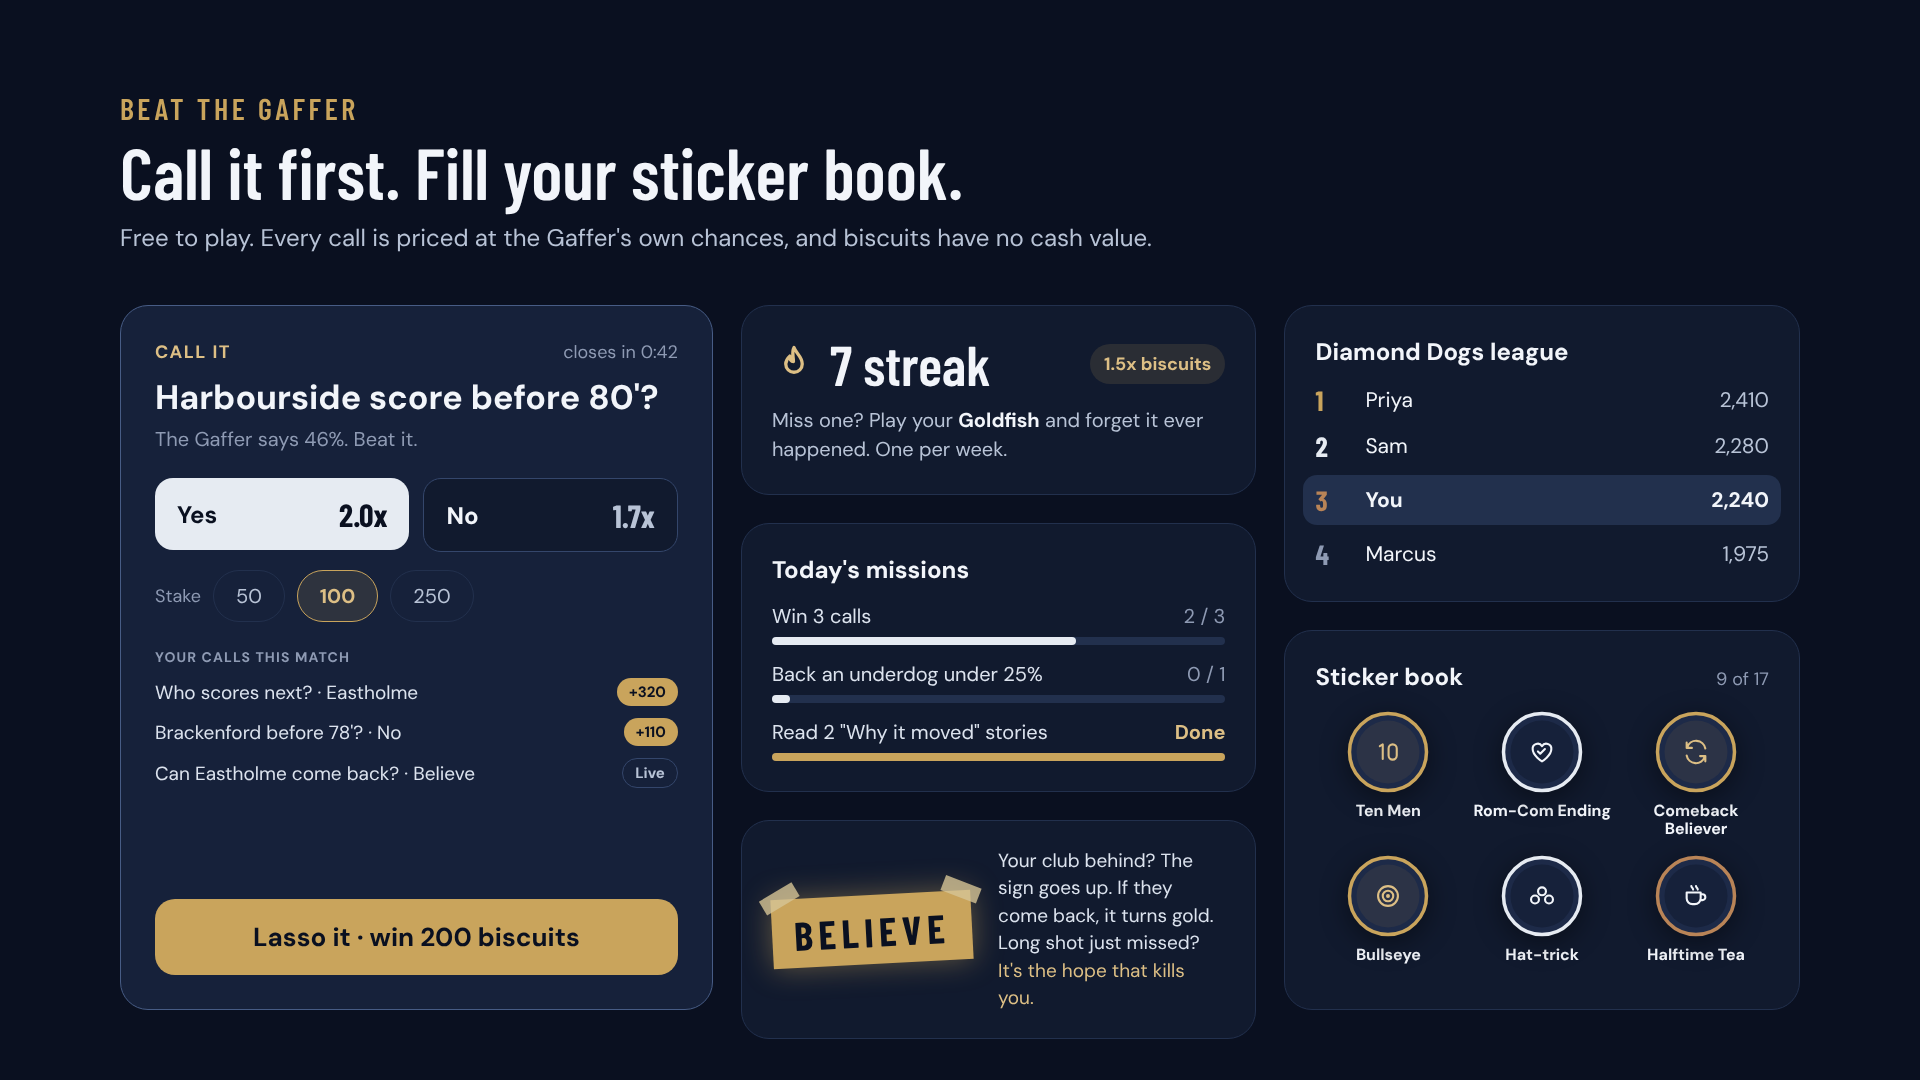
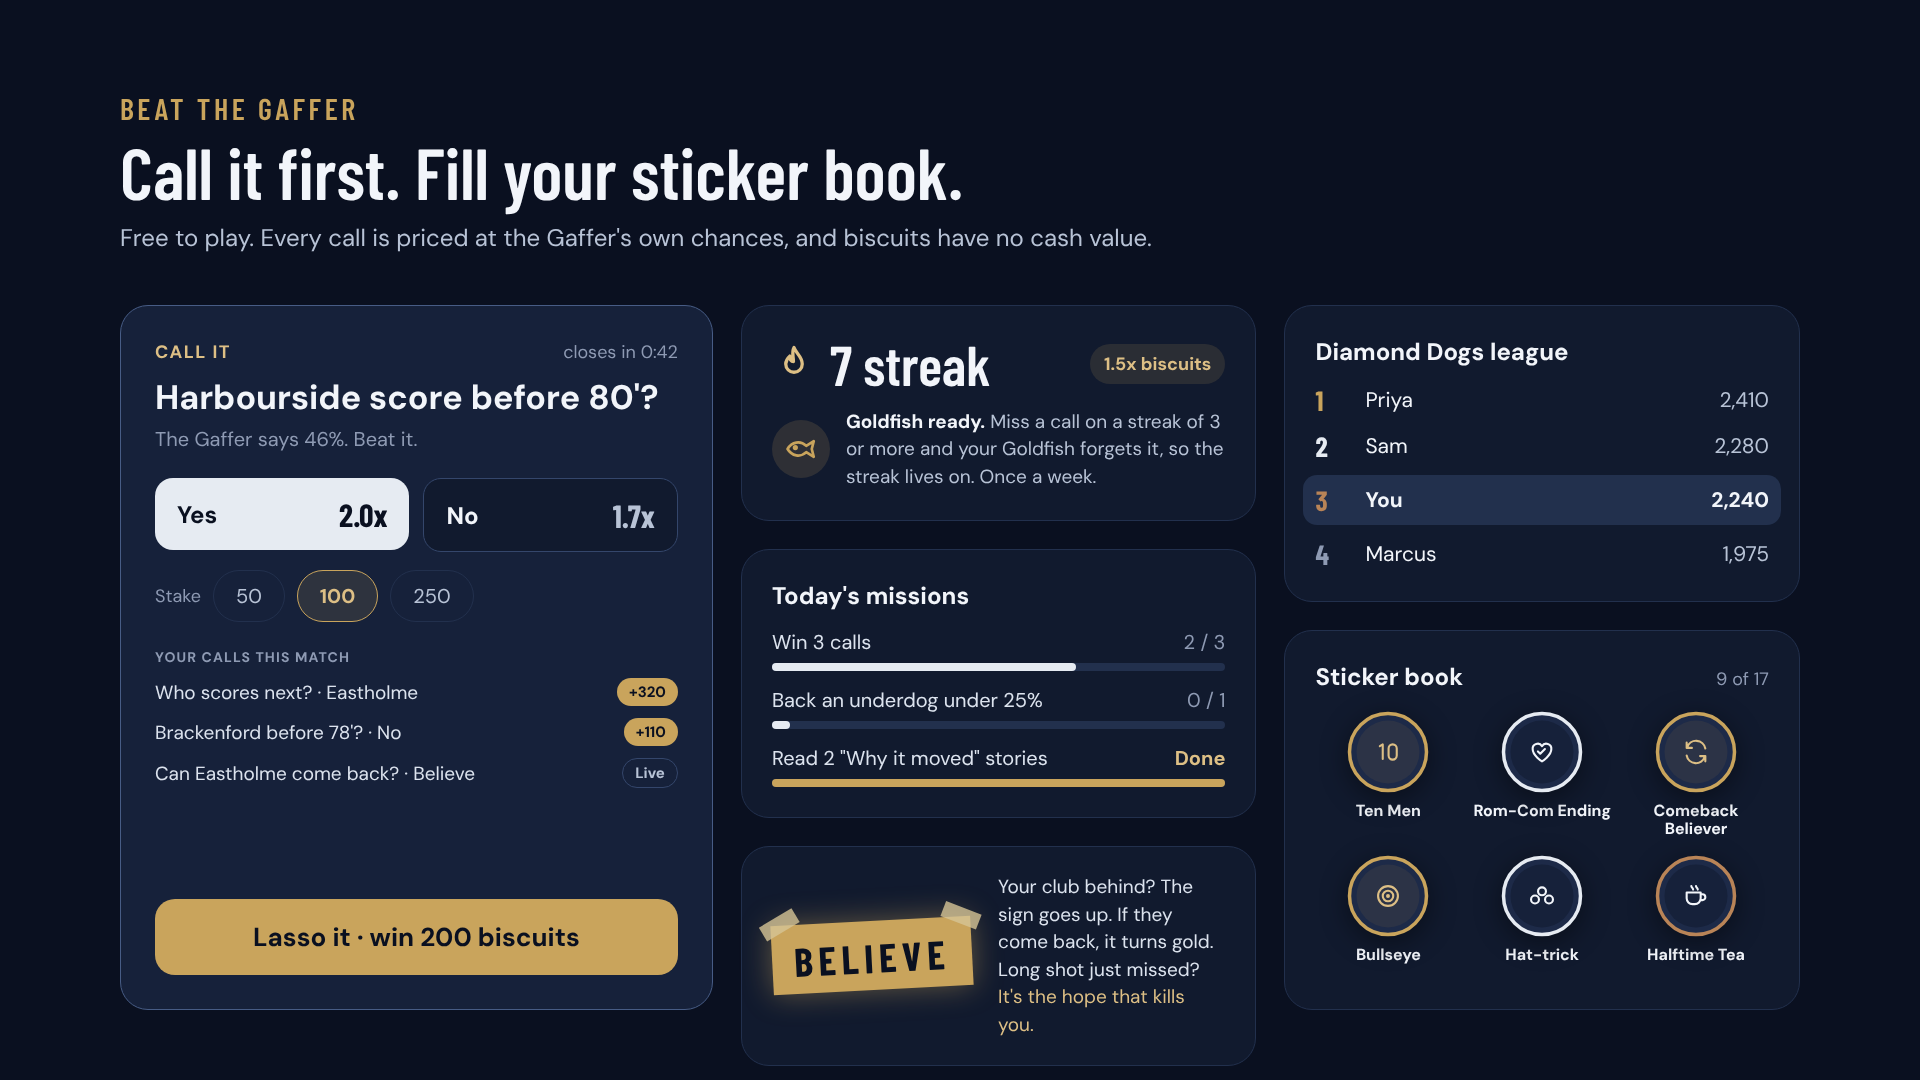
Goldfish made visible: fish in the streak pill, a streak explainer, clearer toast; call history on Me
- Tap the streak pill to see what a streak pays (1.25x at 3, 1.5x at 5) and how
  the Goldfish works; the fish is gold when ready and dimmed once used.
- The Goldfish toast and copy explain it plainly, without quoting the show.
- Your calls: every prediction newest first with stake, odds, match, minute and
  status (live, won with payout, missed, or saved by the Goldfish).
- Beat the Gaffer image explains the Goldfish the same way.

Claude-Session: https://claude.ai/code/session_01VjVdm676emTWmPPf7gxrFH

Changed region(s): [[0.4062, 0.5194, 0.6562, 0.7333], [0.375, 0.7944, 0.625, 0.9472], [0.4062, 0.3667, 0.625, 0.4583]]

diff --git a/web/src/components/Chrome.tsx b/web/src/components/Chrome.tsx
@@ -1,10 +1,11 @@
 import confetti from "canvas-confetti";
 import { useEffect, useState } from "react";
+import { createPortal } from "react-dom";
 import { t } from "../i18n";
 import { useStore } from "../store";
 import { Animated } from "./bits";
 import { StickerBadge, stickerText } from "./Stickers";
-import { Biscuit, CardsIcon, Flame, LassoMark, LiveIcon, Moon, Sun, Trophy, UserIcon } from "./Icons";
+import { Biscuit, CardsIcon, Fish, Flame, LassoMark, LiveIcon, Moon, Sun, Trophy, UserIcon } from "./Icons";
 import { currentAppearance, setAppearance } from "../theme";
 
 export function TopBar() {
@@ -18,6 +19,7 @@ export function TopBar() {
     return () => window.removeEventListener("lasso-theme", sync);
   }, []);
   const flip = () => setAppearance(mode === "dark" ? "light" : "dark");
+  const [streakOpen, setStreakOpen] = useState(false);
   return (
     <header className="topbar">
       <a className="brand" href="#/" aria-label="Lasso home">
@@ -31,16 +33,19 @@ export function TopBar() {
             <Biscuit />
             <Animated value={user.biscuits} />
           </span>
-          <span className="pill gold" title={t("streak", lang)}>
+          <button className="pill gold" onClick={() => setStreakOpen(true)} aria-label={t("streakTitle", lang)}
+            title={user.goldfish_available ? t("gfReady", lang) : t("gfUsed", lang)}>
             <Flame />
             <span>{user.streak}<span className="lbl"> {t("streak", lang)}</span></span>
-          </span>
+            <span className={`fish${user.goldfish_available ? "" : " used"}`}><Fish size={15} /></span>
+          </button>
           <button className="pill icon" onClick={flip} aria-label={mode === "dark" ? t("light", lang) : t("dark", lang)}
             title={mode === "dark" ? t("light", lang) : t("dark", lang)}>
             {mode === "dark" ? <Sun /> : <Moon />}
           </button>
         </div>
       )}
+      {user && streakOpen && createPortal(<StreakSheet onClose={() => setStreakOpen(false)} />, document.body)}
     </header>
   );
 }
@@ -94,7 +99,7 @@ export function Toasts() {
           {x.kind === "loss" && (
             <div>
               <div className="big" style={{ fontSize: 22 }}>{t("notThisTime", lang)}</div>
-              <div className="sub">{x.call.question} {x.call.goldfish ? "· Goldfish saved your streak" : ""}</div>
+              <div className="sub">{x.call.question}{x.call.goldfish ? ` · ${t("stSaved", lang).split("·")[1]?.trim() ?? ""}` : ""}</div>
             </div>
           )}
           {x.kind === "sticker" && (
@@ -122,14 +127,54 @@ export function Toasts() {
             </div>
           )}
           {x.kind === "goldfish" && (
-            <div>
-              <div className="sub" style={{ color: "var(--gold-2)" }}>GOLDFISH USED</div>
-              <div style={{ fontWeight: 700 }}>{x.text}</div>
-            </div>
+            <>
+              <span className="fishbadge"><Fish size={26} /></span>
+              <div>
+                <div className="sub" style={{ color: "var(--gold-2)", letterSpacing: "0.08em" }}>{t("goldfish", lang).toUpperCase()}!</div>
+                <div style={{ fontWeight: 700 }}>{t("gfToast", lang).replace("{n}", String(x.streak))}</div>
+              </div>
+            </>
           )}
           {x.kind === "error" && <div style={{ fontWeight: 600 }}>{x.text}</div>}
         </div>
       ))}
+    </div>
+  );
+}
+
+/** What a streak is worth and how the Goldfish protects it. Opens from the streak pill. */
+function StreakSheet({ onClose }: { onClose: () => void }) {
+  const user = useStore((s) => s.user)!;
+  const lang = useStore((s) => s.lang);
+  const tiers = [
+    { at: 3, x: "1.25x" },
+    { at: 5, x: "1.5x" },
+  ];
+  return (
+    <div className="sheet" role="dialog" aria-modal="true" aria-labelledby="streak-title" onClick={onClose}>
+      <div className="sheet-inner" onClick={(e) => e.stopPropagation()}>
+        <div className="row">
+          <h2 id="streak-title" className="num" style={{ margin: 0, fontSize: 30 }}>{t("streakTitle", lang).toUpperCase()}</h2>
+          <span className="pill gold"><Flame /> {user.streak}</span>
+        </div>
+        <p className="muted" style={{ margin: 0, lineHeight: 1.5 }}>{t("streakHow", lang)}</p>
+        <div className="tiers">
+          {tiers.map((tr) => (
+            <div key={tr.at} className={`tier${user.streak >= tr.at ? " on" : ""}`}>
+              <b>{tr.at}<small>{t("inARow", lang)}</small></b>
+              <span>{tr.x}</span>
+            </div>
+          ))}
+        </div>
+        <div className={`gfcard${user.goldfish_available ? "" : " used"}`}>
+          <span className="fishbadge"><Fish size={30} /></span>
+          <div>
+            <b>{user.goldfish_available ? t("gfReady", lang) : t("gfUsed", lang)}</b>
+            <p>{t("gfHow", lang)}</p>
+          </div>
+        </div>
+        <button className="cta" onClick={onClose}>{t("gotIt", lang)}</button>
+      </div>
     </div>
   );
 }

diff --git a/web/src/i18n.ts b/web/src/i18n.ts
@@ -52,6 +52,38 @@ const S = {
   cameBack: { en: "{team} came back.", es: "{team} remontó.", pt: "{team} reagiu.", fr: "{team} est revenu." },
   menLeft: { en: "{n} men", es: "{n} jugadores", pt: "{n} jogadores", fr: "{n} joueurs" },
   redCards: { en: "Red card: playing a player short", es: "Roja: juega con uno menos", pt: "Vermelho: joga com um a menos", fr: "Carton rouge : joue à dix" },
+  goldfish: { en: "Goldfish", es: "Goldfish", pt: "Goldfish", fr: "Goldfish" },
+  gfReady: { en: "Goldfish ready", es: "Goldfish listo", pt: "Goldfish pronto", fr: "Goldfish prêt" },
+  gfUsed: { en: "Goldfish used. Back on Monday.", es: "Goldfish usado. Vuelve el lunes.", pt: "Goldfish usado. Volta na segunda.", fr: "Goldfish utilisé. Retour lundi." },
+  gfToast: {
+    en: "Short memory. That miss is forgotten and your {n} streak lives on.",
+    es: "Memoria corta. Ese fallo queda olvidado y tu racha de {n} sigue viva.",
+    pt: "Memória curta. Esse erro foi esquecido e sua sequência de {n} continua.",
+    fr: "Mémoire courte. Ce raté est oublié et ta série de {n} continue.",
+  },
+  streakTitle: { en: "Your streak", es: "Tu racha", pt: "Sua sequência", fr: "Ta série" },
+  streakHow: {
+    en: "Win calls in a row to build a streak. At 3 in a row your wins pay 1.25x, and at 5 they pay 1.5x.",
+    es: "Acierta seguido para hacer racha. Con 3 seguidos tus aciertos pagan 1,25x y con 5, 1,5x.",
+    pt: "Acerte em sequência para criar uma série. Com 3 seguidos seus acertos pagam 1,25x e com 5, 1,5x.",
+    fr: "Enchaîne les bons pronos pour faire une série. À 3 de suite, tes gains passent à 1,25x, et à 5, à 1,5x.",
+  },
+  gfHow: {
+    en: "Once a week, your Goldfish forgets one missed call, so a streak of 3 or more keeps going. It comes back every Monday.",
+    es: "Una vez por semana, tu Goldfish olvida un fallo, así que una racha de 3 o más sigue viva. Vuelve cada lunes.",
+    pt: "Uma vez por semana, seu Goldfish esquece um erro, então uma sequência de 3 ou mais continua. Ele volta toda segunda.",
+    fr: "Une fois par semaine, ton Goldfish oublie un prono raté, et une série de 3 ou plus continue. Il revient chaque lundi.",
+  },
+  inARow: { en: "in a row", es: "seguidos", pt: "seguidos", fr: "de suite" },
+  gotIt: { en: "Got it", es: "Entendido", pt: "Entendi", fr: "Compris" },
+  myCalls: { en: "Your calls", es: "Tus pronósticos", pt: "Seus palpites", fr: "Tes pronos" },
+  callsSummary: { en: "{n} calls · {w} won · {o} live", es: "{n} pronósticos · {w} acertados · {o} en juego", pt: "{n} palpites · {w} certos · {o} em jogo", fr: "{n} pronos · {w} gagnés · {o} en cours" },
+  stOpen: { en: "Live", es: "En juego", pt: "Em jogo", fr: "En cours" },
+  stWon: { en: "Won", es: "Acertado", pt: "Certo", fr: "Gagné" },
+  stLost: { en: "Missed", es: "Fallado", pt: "Errou", fr: "Raté" },
+  stSaved: { en: "Missed · Goldfish saved your streak", es: "Fallado · el Goldfish salvó tu racha", pt: "Errou · o Goldfish salvou sua sequência", fr: "Raté · le Goldfish a sauvé ta série" },
+  noCalls: { en: "No calls yet. Open a live match and make your first one.", es: "Aún no hay pronósticos. Abre un partido en vivo y haz el primero.", pt: "Nenhum palpite ainda. Abra um jogo ao vivo e faça o primeiro.", fr: "Pas encore de prono. Ouvre un match en direct et lance-toi." },
+  showAll: { en: "Show all", es: "Ver todo", pt: "Ver tudo", fr: "Tout voir" },
   teamTalk: { en: "Halftime team talk", es: "Charla del descanso", pt: "Preleção do intervalo", fr: "Causerie de la mi-temps" },
   fanHint: { en: "Plain-English stories and your club's angle", es: "Historias claras y el punto de vista de tu club", pt: "Histórias simples e o lado do seu clube", fr: "Des récits simples et l'angle de ton club" },
   analystHint: { en: "xG, field tilt and the full breakdown of every swing", es: "xG, dominio territorial y el desglose de cada cambio", pt: "xG, domínio territorial e o detalhamento de cada virada", fr: "xG, territoire et le détail de chaque bascule" },

diff --git a/web/src/pages/Social.tsx b/web/src/pages/Social.tsx
@@ -4,7 +4,7 @@ import { LANGS, t } from "../i18n";
 import { useStore } from "../store";
 import type { Lang, LeaderRow } from "../types";
 import { Crest } from "../components/bits";
-import { Flame } from "../components/Icons";
+import { Fish, Flame } from "../components/Icons";
 import { StickerBadge, stickerText } from "../components/Stickers";
 import { currentAppearance, setAppearance } from "../theme";
 
@@ -170,10 +170,14 @@ export function Profile() {
         <div><div className="v">{user.best_streak}</div><div className="l">Best streak</div></div>
         <div><div className="v">{winRate}%</div><div className="l">Calls won</div></div>
       </div>
-      <section className="card">
-        <div className="row"><span className="eyebrow">Goldfish</span><span className="chip ghost">{user.goldfish_available ? "Ready" : "Used this week"}</span></div>
-        <p className="muted" style={{ margin: "8px 0 0", fontSize: 13, lineHeight: 1.5 }}>Once a week, a missed call won't break a streak of 3 or more. Be a goldfish: forget it and go again.</p>
+      <section className={`card gfcard${user.goldfish_available ? "" : " used"}`}>
+        <span className="fishbadge"><Fish size={30} /></span>
+        <div>
+          <b>{user.goldfish_available ? t("gfReady", lang) : t("gfUsed", lang)}</b>
+          <p>{t("gfHow", lang)}</p>
+        </div>
       </section>
+      <CallHistory />
       <section className="card" style={{ display: "flex", flexDirection: "column", gap: 14 }}>
         <span className="eyebrow gold">{t("missions", lang)}</span>
         {user.missions.map((m) => (
@@ -214,5 +218,48 @@ export function Profile() {
         Biscuits are free in-app points with no cash value. All clubs, players and matches are synthetic.
       </p>
     </div>
+  );
+}
+
+/** Every call you've made, newest first, with where it stands now. */
+function CallHistory() {
+  const calls = useStore((s) => s.calls);
+  const matches = useStore((s) => s.matches);
+  const lang = useStore((s) => s.lang);
+  const [all, setAll] = useState(false);
+  const list = Object.values(calls).sort((a, b) => (b.placed_at ?? 0) - (a.placed_at ?? 0));
+  const label = (id?: string) => {
+    const m = matches.find((x) => x.match_id === (id ?? "").split(":")[0]);
+    return m ? `${m.home.short} v ${m.away.short}` : "";
+  };
+  const won = list.filter((c) => c.status === "won").length;
+  const open = list.filter((c) => c.status === "open").length;
+  const shown = all ? list : list.slice(0, 8);
+  return (
+    <section className="card" style={{ display: "flex", flexDirection: "column", gap: 10 }}>
+      <div className="row">
+        <span className="eyebrow gold">{t("myCalls", lang)}</span>
+        {list.length > 0 && (
+          <span className="muted" style={{ fontSize: 12 }}>
+            {t("callsSummary", lang).replace("{n}", String(list.length)).replace("{w}", String(won)).replace("{o}", String(open))}
+          </span>
+        )}
+      </div>
+      {list.length === 0 && <p className="muted" style={{ margin: 0, fontSize: 13 }}>{t("noCalls", lang)}</p>}
+      {shown.map((c) => (
+        <div key={c.id} className={`callrow ${c.status}${c.goldfish ? " saved" : ""}`}>
+          <div className="q">
+            <b>{c.question}</b>
+            <span>{c.label} · {c.stake} @ {c.multiplier.toFixed(1)}x · {label(c.market_id)} {c.minute}'</span>
+          </div>
+          <span className="st">
+            {c.status === "open" && t("stOpen", lang)}
+            {c.status === "won" && `+${c.payout}`}
+            {c.status === "lost" && (c.goldfish ? <><Fish size={14} /> {t("stLost", lang)}</> : t("stLost", lang))}
+          </span>
+        </div>
+      ))}
+      {list.length > 8 && !all && <button className="linkbtn" onClick={() => setAll(true)}>{t("showAll", lang)}</button>}
+    </section>
   );
 }

diff --git a/web/src/styles.css b/web/src/styles.css
@@ -216,6 +216,30 @@ a { color: var(--silver); }
 .believe.won span { color: var(--gold-2); }
 @keyframes signin { from { transform: translateY(-14px) rotate(4deg); opacity: 0; } to { transform: none; opacity: 1; } }
 @media (prefers-reduced-motion: reduce) { .believe { animation: none; } }
+.pill .fish { display: inline-flex; color: var(--gold); margin-left: 2px; }
+.pill .fish.used { color: var(--muted); opacity: 0.45; }
+button.pill { font: inherit; font-size: 13px; font-weight: 700; cursor: pointer; }
+.fishbadge { flex: none; width: 46px; height: 46px; border-radius: 50%; display: inline-flex; align-items: center; justify-content: center; background: color-mix(in srgb, var(--gold) 18%, transparent); color: var(--gold); }
+.gfcard { display: flex; gap: 14px; align-items: flex-start; }
+.gfcard b { display: block; font-size: 15px; }
+.gfcard p { margin: 4px 0 0; font-size: 13px; line-height: 1.5; color: var(--muted); }
+.gfcard.used .fishbadge { background: var(--surface-3); color: var(--muted); }
+.tiers { display: grid; grid-template-columns: repeat(2, minmax(0, 1fr)); gap: 10px; }
+.tier { border: 1px solid var(--line); border-radius: 14px; padding: 12px 14px; display: flex; align-items: baseline; justify-content: space-between; color: var(--muted); }
+.tier b { font-family: var(--num); font-size: 26px; color: var(--text-2); }
+.tier small { font-size: 12px; color: var(--muted); margin-left: 4px; }
+.tier span { font-family: var(--num); font-size: 22px; font-weight: 600; }
+.tier.on { border-color: var(--gold); color: var(--gold-2); }
+.tier.on span { color: var(--gold); }
+.callrow { display: flex; gap: 12px; align-items: center; justify-content: space-between; padding: 10px 0; border-top: 1px solid var(--line); }
+.callrow .q { display: flex; flex-direction: column; gap: 2px; min-width: 0; }
+.callrow .q b { font-size: 14px; }
+.callrow .q span { font-size: 12px; color: var(--muted); }
+.callrow .st { flex: none; display: inline-flex; align-items: center; gap: 4px; font-size: 12px; font-weight: 700; padding: 4px 10px; border-radius: 999px; border: 1px solid var(--line-2); color: var(--soft); }
+.callrow.won .st { background: var(--gold); border-color: var(--gold); color: var(--ink-on-gold); font-family: var(--num); font-size: 14px; }
+.callrow.lost .st { color: var(--muted); border-color: var(--line); }
+.callrow.saved .st { color: var(--gold-2); border-color: color-mix(in srgb, var(--gold) 45%, transparent); }
+.toast .fishbadge { width: 42px; height: 42px; }
 .lasso-wrap { position: relative; }
 .lasso-throw { position: absolute; left: -6px; right: -6px; top: 6px; width: calc(100% + 12px); height: 64px; pointer-events: none; overflow: visible; }
 .lasso-throw path { fill: none; stroke: var(--gold); stroke-width: 2.5; stroke-linecap: round; vector-effect: non-scaling-stroke; stroke-dasharray: 100; stroke-dashoffset: 100; }

diff --git a/web/src/store.ts b/web/src/store.ts
@@ -9,7 +9,7 @@ export type Toast =
   | { id: number; kind: "sticker"; sticker: Sticker }
   | { id: number; kind: "hope"; call: Call }
   | { id: number; kind: "mission"; label: string; reward: number }
-  | { id: number; kind: "goldfish"; text: string }
+  | { id: number; kind: "goldfish"; streak: number }
   | { id: number; kind: "error"; text: string };
 
 type ToastInput =
@@ -18,7 +18,7 @@ type ToastInput =
   | { kind: "sticker"; sticker: Sticker }
   | { kind: "hope"; call: Call }
   | { kind: "mission"; label: string; reward: number }
-  | { kind: "goldfish"; text: string }
+  | { kind: "goldfish"; streak: number }
   | { kind: "error"; text: string };
 
 interface State {
@@ -228,7 +228,7 @@ function onMessage(d: any) {
       st.toast({ kind: "mission", label: d.label, reward: d.reward });
       break;
     case "goldfish":
-      st.toast({ kind: "goldfish", text: d.text });
+      st.toast({ kind: "goldfish", streak: d.streak });
       break;
   }
 }

diff --git a/web/src/components/Icons.tsx b/web/src/components/Icons.tsx
@@ -79,3 +79,10 @@ export const Moon = ({ size = 18 }: P) => (
     <path d="M19.5 14.6A8 8 0 0 1 9.4 4.5a8 8 0 1 0 10.1 10.1z" />
   </svg>
 );
+
+export const Fish = ({ size = 15, color = "currentColor" }: P) => (
+  <svg width={size} height={size} viewBox="0 0 24 24" fill="none" stroke={color} strokeWidth={1.9} strokeLinecap="round" strokeLinejoin="round" aria-hidden="true">
+    <path d="M2.5 12c3-5 9-6.2 13.2-2.2L21 6.5l-1.4 5.5 1.4 5.5-5.3-3.3C11.5 18.2 5.5 17 2.5 12z" />
+    <circle cx="8" cy="11" r="0.9" fill={color} />
+  </svg>
+);

diff --git a/web/src/types.ts b/web/src/types.ts
@@ -203,6 +203,8 @@ export interface Call {
   payout: number;
   minute: number;
   goldfish?: boolean;
+  match_id?: string;
+  placed_at?: number;
 }
 
 export interface LeaderRow {

diff --git a/services/api/lasso_api/game.py b/services/api/lasso_api/game.py
@@ -243,7 +243,7 @@ class GameService:
                     u["goldfish_pending"] = True
                     call["goldfish"] = True
                     msgs.append({"type": "goldfish", "streak": u["streak"],
-                                 "text": "Be a goldfish. Your streak survives this one."})
+                                 "text": "Goldfish: that miss is forgotten and your streak lives on."})
                 else:
                     u["streak"] = 0
                     u["goldfish_pending"] = False
